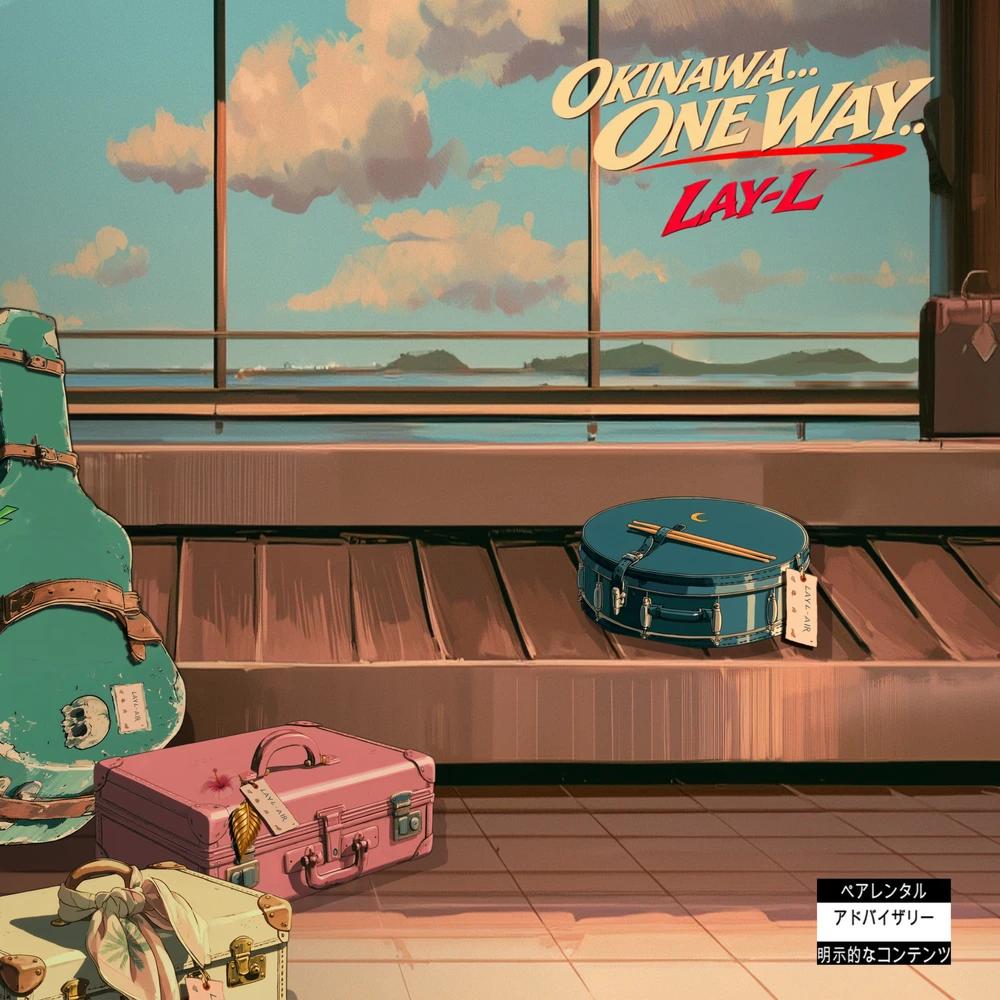
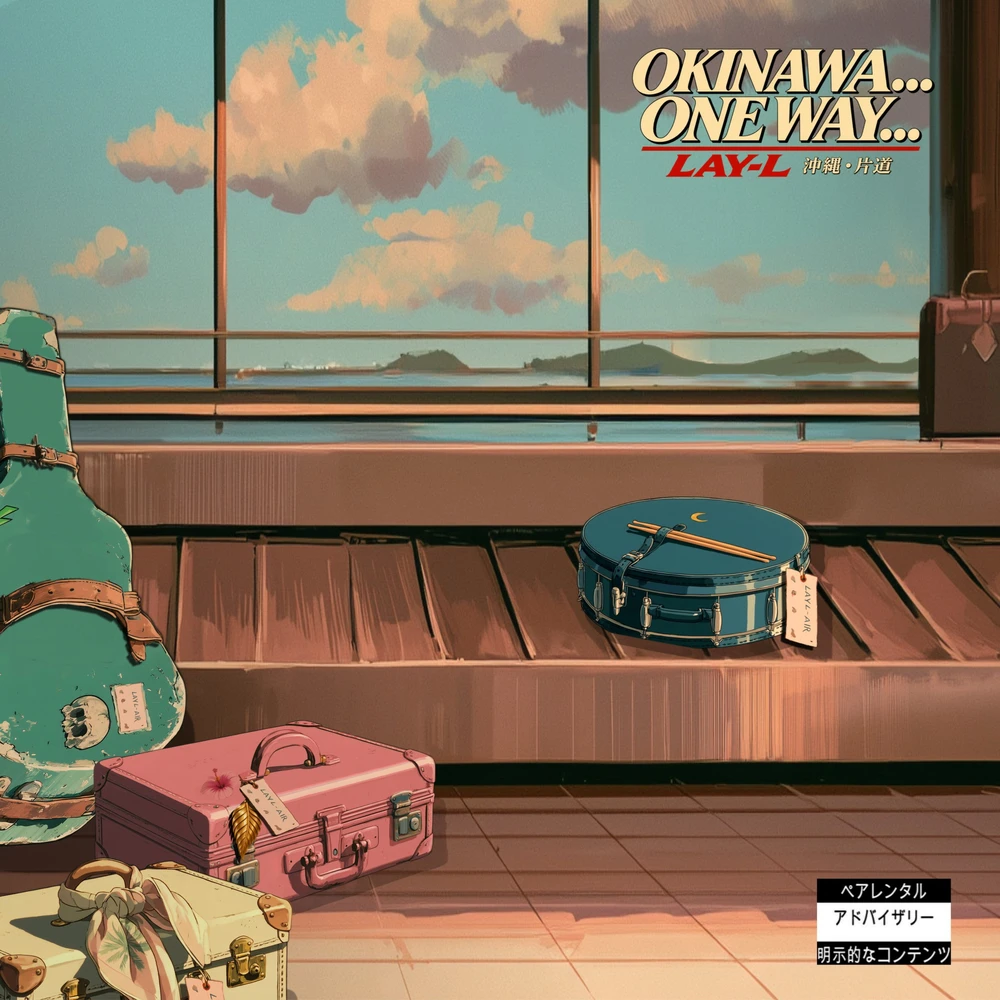
Album cover: updated front with new title typography
Claude-Session: https://claude.ai/code/session_013w5yMdZKv437No8p47gv7E

Changed region(s): [[0.496, 0.031, 0.961, 0.248]]

diff --git a/okinawa/index.html b/okinawa/index.html
@@ -11,7 +11,7 @@
 <meta name="twitter:title" content="LAY-L · Okinawa… One Way.."><meta name="twitter:description" content="Fourteen channels. One cinematic universe. One way. Now boarding.">
 <meta property="og:image:alt" content="Okinawa… One Way.. by LAY-L: Lilac in headphones at an aeroplane window above an Okinawa island">
 <link rel="preload" as="image" href="hero-poster-sm.webp?v=4" fetchpriority="high" media="(max-width: 819px)"><link rel="preload" as="image" href="hero-poster.webp?v=4" fetchpriority="high" media="(min-width: 820px)">
-<script type="application/ld+json">{"@context": "https://schema.org", "@graph": [{"@type": "MusicGroup", "@id": "https://khalednadershah-spec.github.io/Laylmusichub/#layl", "name": "LAY-L", "description": "LAY-L is an animated band, made with AI tools and directed by people.", "url": "https://khalednadershah-spec.github.io/Laylmusichub/okinawa/", "email": "layl.musicband@gmail.com", "member": [{"@type": "Person", "name": "Lilac"}, {"@type": "Person", "name": "Asmar"}, {"@type": "Person", "name": "Yamm"}, {"@type": "Person", "name": "Lattam"}], "sameAs": ["https://instagram.com/wearelayl/", "https://www.tiktok.com/@wearelayl", "https://www.youtube.com/@LAY-LMUSIC"]}, {"@type": "MusicAlbum", "name": "Okinawa… One Way..", "byArtist": {"@id": "https://khalednadershah-spec.github.io/Laylmusichub/#layl"}, "image": "https://khalednadershah-spec.github.io/Laylmusichub/okinawa/cover-sq.webp?v=4", "numTracks": 14, "url": "https://khalednadershah-spec.github.io/Laylmusichub/okinawa/", "track": {"@type": "ItemList", "numberOfItems": 14, "itemListElement": [{"@type": "ListItem", "position": 1, "item": {"@type": "MusicRecording", "name": "One Missed Call.. Two…", "duration": "PT2M4S", "byArtist": {"@id": "https://khalednadershah-spec.github.io/Laylmusichub/#layl"}}}, {"@type": "ListItem", "position": 2, "item": {"@type": "MusicRecording", "name": "Sakura", "duration": "PT4M9S", "byArtist": {"@id": "https://khalednadershah-spec.github.io/Laylmusichub/#layl"}}}, {"@type": "ListItem", "position": 3, "item": {"@type": "MusicRecording", "name": "Lost in Japan", "duration": "PT3M25S", "byArtist": {"@id": "https://khalednadershah-spec.github.io/Laylmusichub/#layl"}}}, {"@type": "ListItem", "position": 4, "item": {"@type": "MusicRecording", "name": "Why Would I?", "duration": "PT3M43S", "byArtist": {"@id": "https://khalednadershah-spec.github.io/Laylmusichub/#layl"}}}, {"@type": "ListItem", "position": 5, "item": {"@type": "MusicRecording", "name": "Auntie A.I.", "duration": "PT4M4S", "byArtist": {"@id": "https://khalednadershah-spec.github.io/Laylmusichub/#layl"}}}, {"@type": "ListItem", "position": 6, "item": {"@type": "MusicRecording", "name": "The Voice at Platform Two", "duration": "PT4M44S", "byArtist": {"@id": "https://khalednadershah-spec.github.io/Laylmusichub/#layl"}}}, {"@type": "ListItem", "position": 7, "item": {"@type": "MusicRecording", "name": "Plastic Flower", "duration": "PT3M12S", "byArtist": {"@id": "https://khalednadershah-spec.github.io/Laylmusichub/#layl"}}}, {"@type": "ListItem", "position": 8, "item": {"@type": "MusicRecording", "name": "Crickets", "duration": "PT3M3S", "byArtist": {"@id": "https://khalednadershah-spec.github.io/Laylmusichub/#layl"}}}, {"@type": "ListItem", "position": 9, "item": {"@type": "MusicRecording", "name": "SAdTURN", "duration": "PT4M3S", "byArtist": {"@id": "https://khalednadershah-spec.github.io/Laylmusichub/#layl"}}}, {"@type": "ListItem", "position": 10, "item": {"@type": "MusicRecording", "name": "ASMR Stimulation", "duration": "PT3M20S", "byArtist": {"@id": "https://khalednadershah-spec.github.io/Laylmusichub/#layl"}}}, {"@type": "ListItem", "position": 11, "item": {"@type": "MusicRecording", "name": "Refrigerator", "duration": "PT3M3S", "byArtist": {"@id": "https://khalednadershah-spec.github.io/Laylmusichub/#layl"}}}, {"@type": "ListItem", "position": 12, "item": {"@type": "MusicRecording", "name": "The Wind Called In Sick", "duration": "PT3M9S", "byArtist": {"@id": "https://khalednadershah-spec.github.io/Laylmusichub/#layl"}}}, {"@type": "ListItem", "position": 13, "item": {"@type": "MusicRecording", "name": "Tamagotchi Luv (Bonus Track)", "duration": "PT4M6S", "byArtist": {"@id": "https://khalednadershah-spec.github.io/Laylmusichub/#layl"}}}, {"@type": "ListItem", "position": 14, "item": {"@type": "MusicRecording", "name": "Voodoo Doll (Bonus Track)", "duration": "PT4M13S", "byArtist": {"@id": "https://khalednadershah-spec.github.io/Laylmusichub/#layl"}}}]}}]}</script>
+<script type="application/ld+json">{"@context": "https://schema.org", "@graph": [{"@type": "MusicGroup", "@id": "https://khalednadershah-spec.github.io/Laylmusichub/#layl", "name": "LAY-L", "description": "LAY-L is an animated band, made with AI tools and directed by people.", "url": "https://khalednadershah-spec.github.io/Laylmusichub/okinawa/", "email": "layl.musicband@gmail.com", "member": [{"@type": "Person", "name": "Lilac"}, {"@type": "Person", "name": "Asmar"}, {"@type": "Person", "name": "Yamm"}, {"@type": "Person", "name": "Lattam"}], "sameAs": ["https://instagram.com/wearelayl/", "https://www.tiktok.com/@wearelayl", "https://www.youtube.com/@LAY-LMUSIC"]}, {"@type": "MusicAlbum", "name": "Okinawa… One Way..", "byArtist": {"@id": "https://khalednadershah-spec.github.io/Laylmusichub/#layl"}, "image": "https://khalednadershah-spec.github.io/Laylmusichub/okinawa/cover-sq.webp?v=5", "numTracks": 14, "url": "https://khalednadershah-spec.github.io/Laylmusichub/okinawa/", "track": {"@type": "ItemList", "numberOfItems": 14, "itemListElement": [{"@type": "ListItem", "position": 1, "item": {"@type": "MusicRecording", "name": "One Missed Call.. Two…", "duration": "PT2M4S", "byArtist": {"@id": "https://khalednadershah-spec.github.io/Laylmusichub/#layl"}}}, {"@type": "ListItem", "position": 2, "item": {"@type": "MusicRecording", "name": "Sakura", "duration": "PT4M9S", "byArtist": {"@id": "https://khalednadershah-spec.github.io/Laylmusichub/#layl"}}}, {"@type": "ListItem", "position": 3, "item": {"@type": "MusicRecording", "name": "Lost in Japan", "duration": "PT3M25S", "byArtist": {"@id": "https://khalednadershah-spec.github.io/Laylmusichub/#layl"}}}, {"@type": "ListItem", "position": 4, "item": {"@type": "MusicRecording", "name": "Why Would I?", "duration": "PT3M43S", "byArtist": {"@id": "https://khalednadershah-spec.github.io/Laylmusichub/#layl"}}}, {"@type": "ListItem", "position": 5, "item": {"@type": "MusicRecording", "name": "Auntie A.I.", "duration": "PT4M4S", "byArtist": {"@id": "https://khalednadershah-spec.github.io/Laylmusichub/#layl"}}}, {"@type": "ListItem", "position": 6, "item": {"@type": "MusicRecording", "name": "The Voice at Platform Two", "duration": "PT4M44S", "byArtist": {"@id": "https://khalednadershah-spec.github.io/Laylmusichub/#layl"}}}, {"@type": "ListItem", "position": 7, "item": {"@type": "MusicRecording", "name": "Plastic Flower", "duration": "PT3M12S", "byArtist": {"@id": "https://khalednadershah-spec.github.io/Laylmusichub/#layl"}}}, {"@type": "ListItem", "position": 8, "item": {"@type": "MusicRecording", "name": "Crickets", "duration": "PT3M3S", "byArtist": {"@id": "https://khalednadershah-spec.github.io/Laylmusichub/#layl"}}}, {"@type": "ListItem", "position": 9, "item": {"@type": "MusicRecording", "name": "SAdTURN", "duration": "PT4M3S", "byArtist": {"@id": "https://khalednadershah-spec.github.io/Laylmusichub/#layl"}}}, {"@type": "ListItem", "position": 10, "item": {"@type": "MusicRecording", "name": "ASMR Stimulation", "duration": "PT3M20S", "byArtist": {"@id": "https://khalednadershah-spec.github.io/Laylmusichub/#layl"}}}, {"@type": "ListItem", "position": 11, "item": {"@type": "MusicRecording", "name": "Refrigerator", "duration": "PT3M3S", "byArtist": {"@id": "https://khalednadershah-spec.github.io/Laylmusichub/#layl"}}}, {"@type": "ListItem", "position": 12, "item": {"@type": "MusicRecording", "name": "The Wind Called In Sick", "duration": "PT3M9S", "byArtist": {"@id": "https://khalednadershah-spec.github.io/Laylmusichub/#layl"}}}, {"@type": "ListItem", "position": 13, "item": {"@type": "MusicRecording", "name": "Tamagotchi Luv (Bonus Track)", "duration": "PT4M6S", "byArtist": {"@id": "https://khalednadershah-spec.github.io/Laylmusichub/#layl"}}}, {"@type": "ListItem", "position": 14, "item": {"@type": "MusicRecording", "name": "Voodoo Doll (Bonus Track)", "duration": "PT4M13S", "byArtist": {"@id": "https://khalednadershah-spec.github.io/Laylmusichub/#layl"}}}]}}]}</script>
 <meta property="og:title" content="LAY-L · Okinawa… One Way.."><meta property="og:image:width" content="1200"><meta property="og:image:height" content="630">
 <meta property="og:type" content="music.album">
 <meta property="og:url" content="https://khalednadershah-spec.github.io/Laylmusichub/okinawa/">
@@ -569,7 +569,7 @@ if("IntersectionObserver" in window)new IntersectionObserver(function(es){es.for
       <p>The title comes from the moment in Kill Bill: Vol. 1 when The Bride asks for a one-way ticket to Okinawa. For LAY-L, that ticket is a promise: the freedom to travel between sounds and never come back to the same one twice.</p>
       <p>The songs follow fleeting relationships, strange attachments and ordinary things that turn out to matter: a recorded voice, a plastic flower, a phone that never rings. The absurd is treated with complete sincerity.</p>
       <div class="facts"><div><b>14</b><span>Channels</span></div><div><b>2</b><span>Bonus flights</span></div><div><b>1</b><span>Way</span></div></div>
-    </div><figure class="acov" id="acov"><div class="acv"><img class="af" src="cover-sq.webp?v=4" alt="Okinawa… One Way.. front cover: the crew’s LAY-L AIR luggage by a baggage carousel, with Okinawa’s islands through the terminal window" loading="lazy" width="1000" height="1000"><img class="ab" src="cover-back.webp?v=2" alt="Back cover: Yamm, Lattam, Lilac and Asmar, seen from behind at baggage claim, read the flight board listing 12 tracks plus 2 bonus tracks" loading="lazy" width="1000" height="1000"></div><figcaption class="aflip" role="group" aria-label="Album cover side"><button type="button" aria-pressed="true" data-s="f">Front</button><button type="button" aria-pressed="false" data-s="b">Back</button></figcaption></figure></div>
+    </div><figure class="acov" id="acov"><div class="acv"><img class="af" src="cover-sq.webp?v=5" alt="Okinawa… One Way.. front cover: the crew’s LAY-L AIR luggage by a baggage carousel, with Okinawa’s islands through the terminal window" loading="lazy" width="1000" height="1000"><img class="ab" src="cover-back.webp?v=2" alt="Back cover: Yamm, Lattam, Lilac and Asmar, seen from behind at baggage claim, read the flight board listing 12 tracks plus 2 bonus tracks" loading="lazy" width="1000" height="1000"></div><figcaption class="aflip" role="group" aria-label="Album cover side"><button type="button" aria-pressed="true" data-s="f">Front</button><button type="button" aria-pressed="false" data-s="b">Back</button></figcaption></figure></div>
   </section>
   <section class="sec" id="passengers" aria-labelledby="pl-h"><div class="sec-k">Passenger list · 乗客名簿</div>
     <div class="plist"><div class="pl-main"><span class="pl-k">LAY-L AIR</span><h2 class="pl-h" id="pl-h">Join the passenger list</h2>
